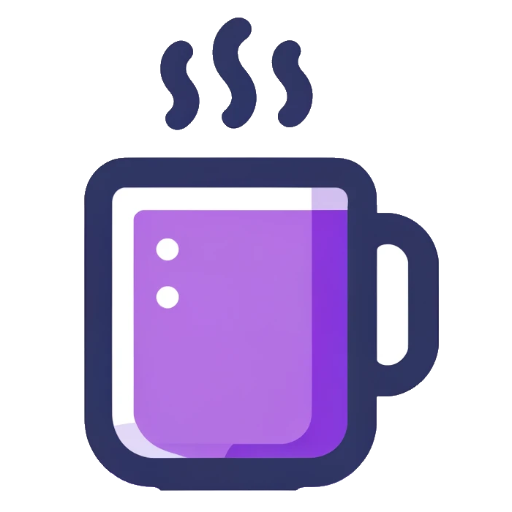
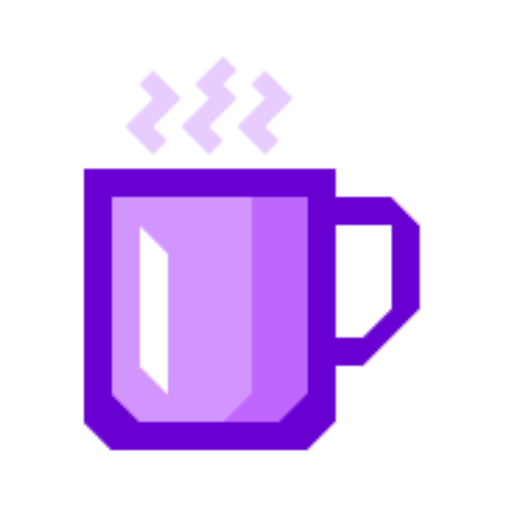
Site updates!

diff --git a/content/_index.md b/content/_index.md
@@ -6,5 +6,5 @@ author: Jonathan "Keenan" Walker
 title: Keenan Wants More Coffee
 description: "Keenan just wants more coffee, which is natural for a developer."
 images:
-- home-cover.png
+- images/coffee-icon.png
 ---
